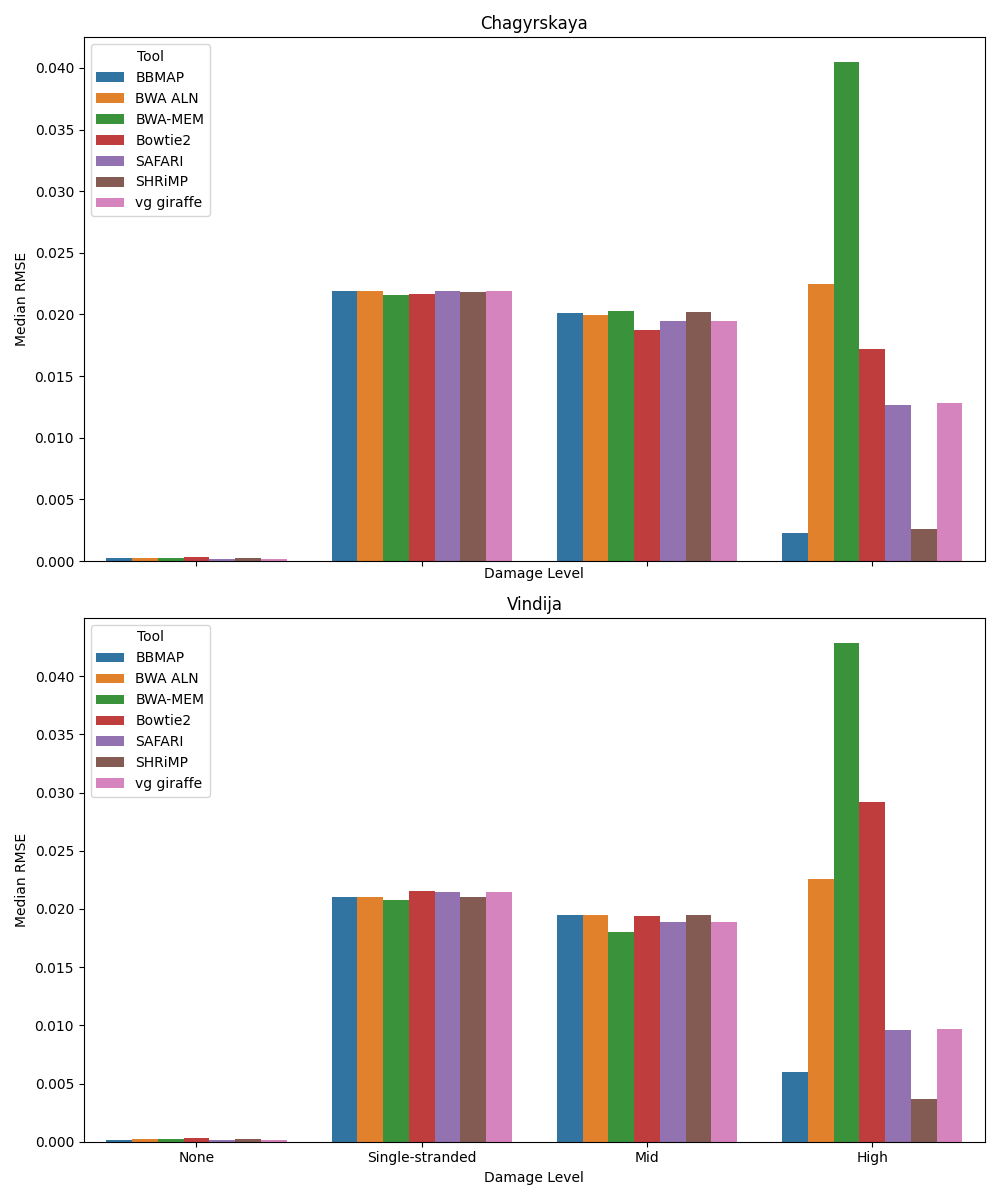
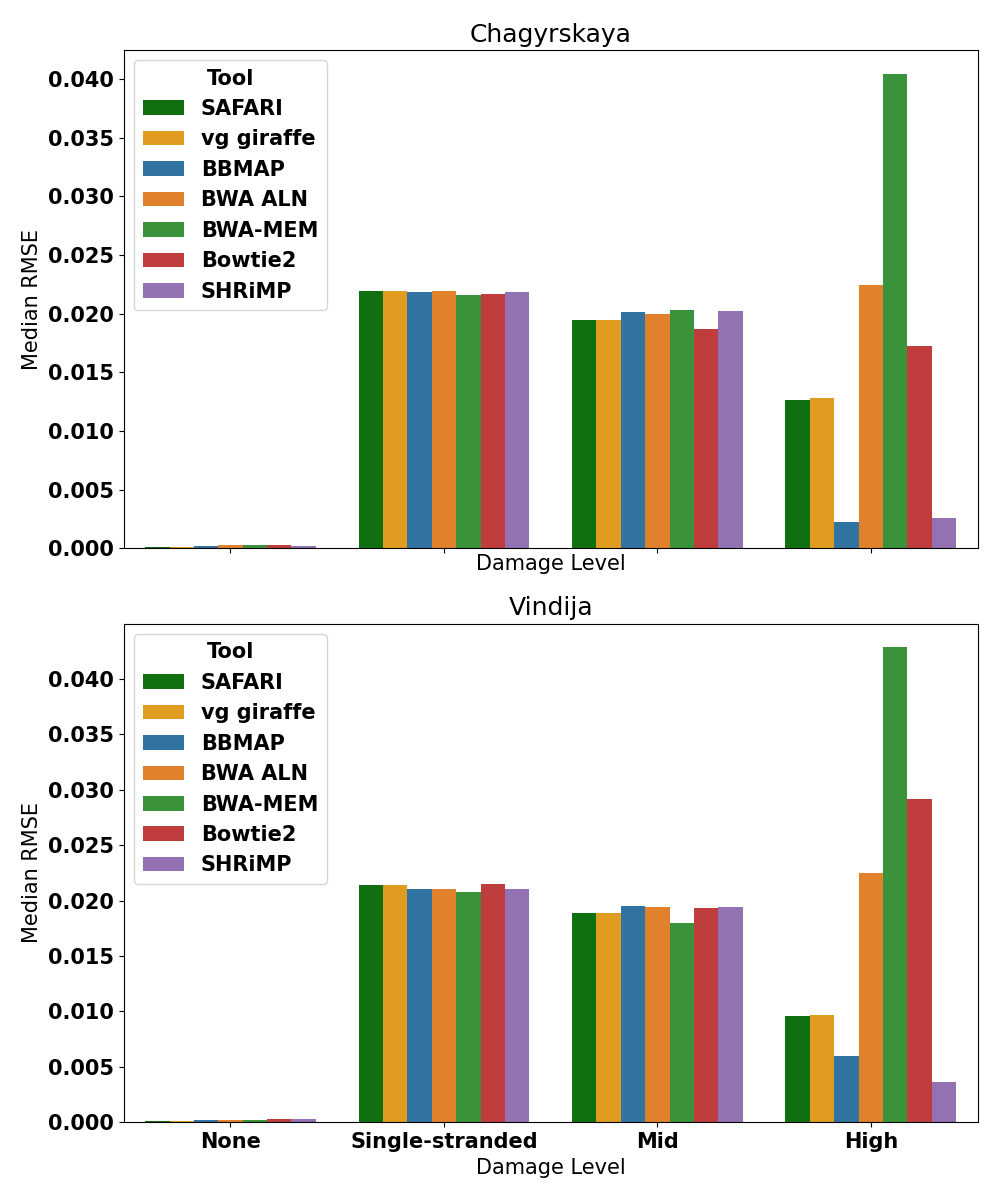
Update

diff --git a/linear_experiment/human_mito/stat_results/RMSE_all.py b/linear_experiment/human_mito/stat_results/RMSE_all.py
@@ -29,13 +29,26 @@ def generate_percentage_decrease_plots(input_file_path):
     # Melt the pivot_data for plotting
     melted_data = pivot_data.melt(id_vars=['fragment_len_dist', 'damage_level'], var_name='Tool', value_name='RMSE')
 
+    # Order and palette customization
+    tools_order = ['SAFARI', 'vg giraffe']  # Add other tools to the list as needed
+    tools_palette = {'SAFARI': 'green', 'vg giraffe': 'orange'}  # Add distinct colors for other tools
+    
+    # You can dynamically adjust the order and palette if the tools vary
+    # For example, add any tools not already included to the order list and generate colors
+    additional_tools = sorted(set(melted_data['Tool']) - set(tools_order))
+    tools_order += additional_tools
+    # Use a colormap or define a list of colors for additional tools
+    cmap = plt.get_cmap("tab10")  # This is an example; adjust as needed
+    for i, tool in enumerate(additional_tools):
+        tools_palette[tool] = cmap(i % cmap.N)
+
     # Creating the plots
     fig, axs = plt.subplots(2, 1, figsize=(10, 12), sharex=True)
     
-    # Filtering data for each site and plotting
+    # Filtering data for each site and plotting with customized order and palette
     for i, site in enumerate(["Chagyrskaya", "Vindija"]):
         site_data = melted_data[melted_data['fragment_len_dist'] == site]
-        sns.barplot(x='damage_level', y='RMSE', hue='Tool', data=site_data, ax=axs[i], ci=None)
+        sns.barplot(x='damage_level', y='RMSE', hue='Tool', data=site_data, ax=axs[i], ci=None, hue_order=tools_order, palette=tools_palette)
         axs[i].set_title(site)
         axs[i].set_ylabel('Median RMSE')
         axs[i].set_xlabel('Damage Level')
